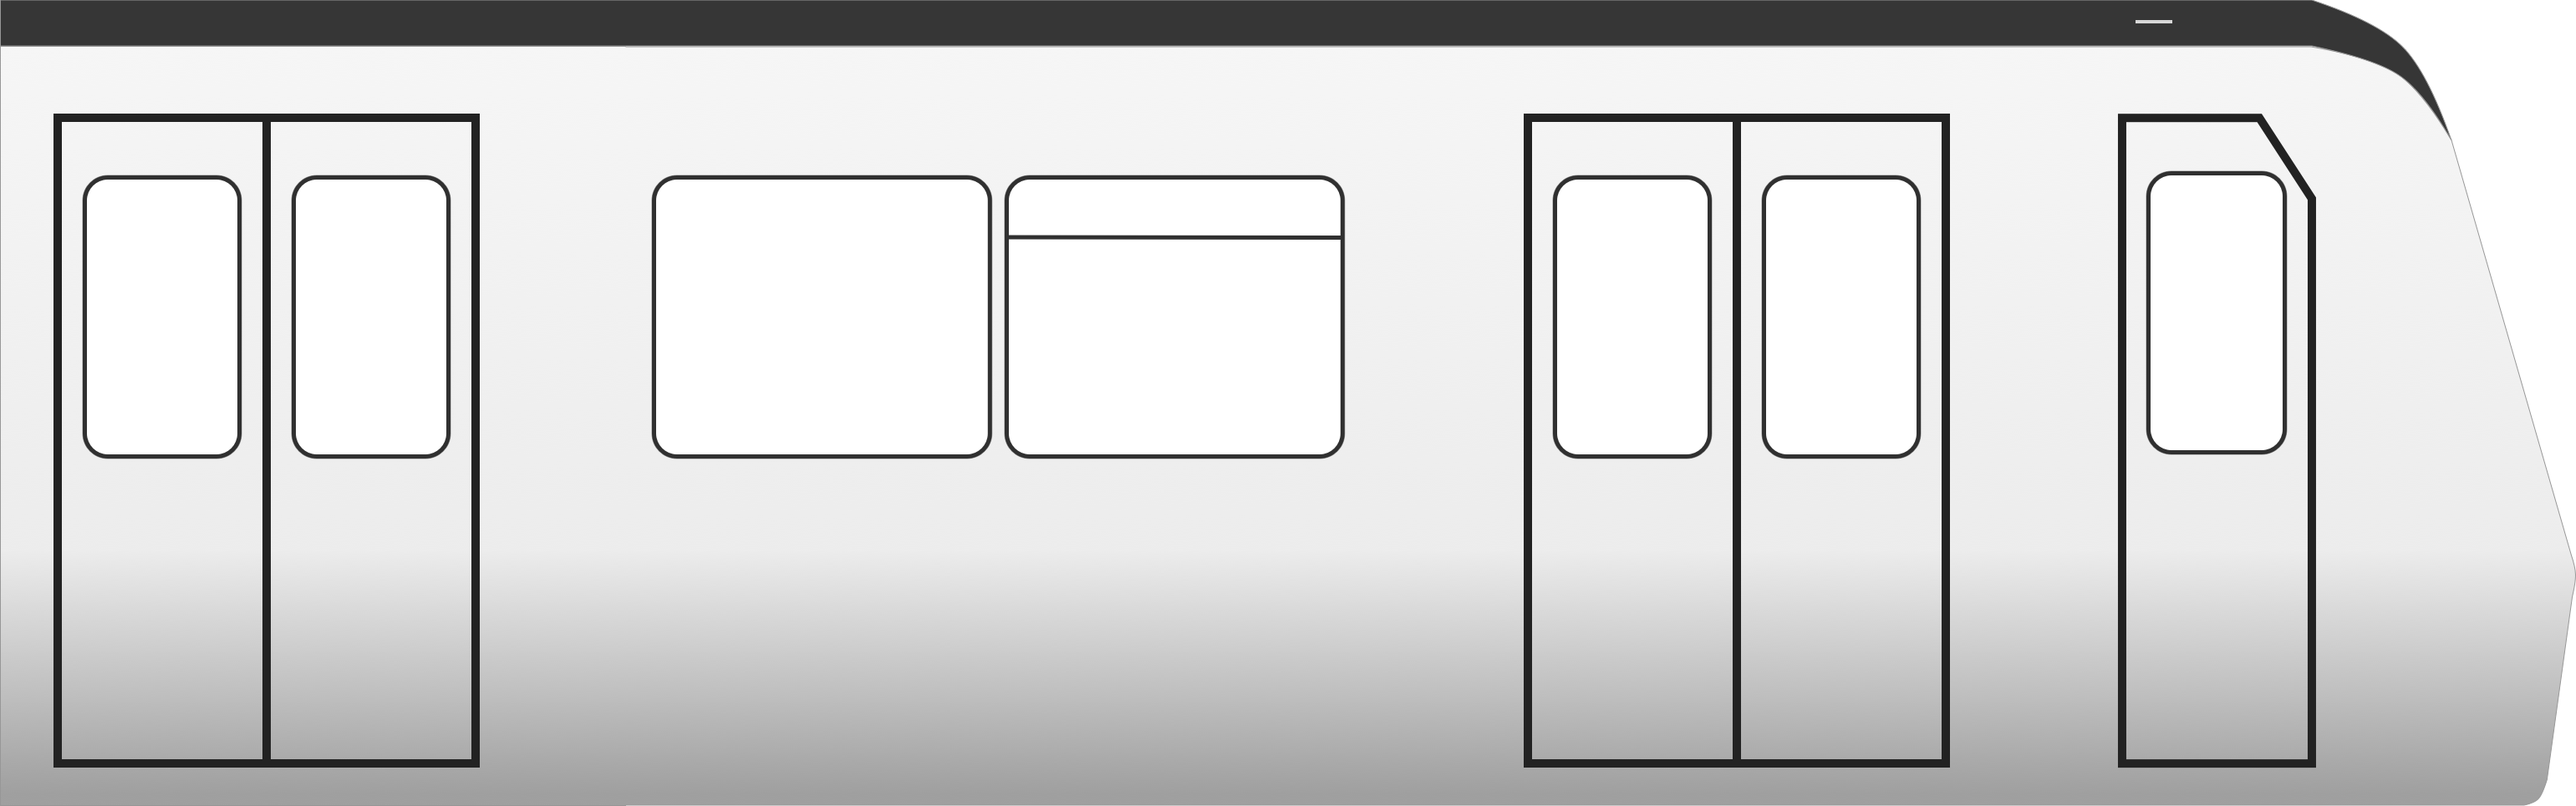
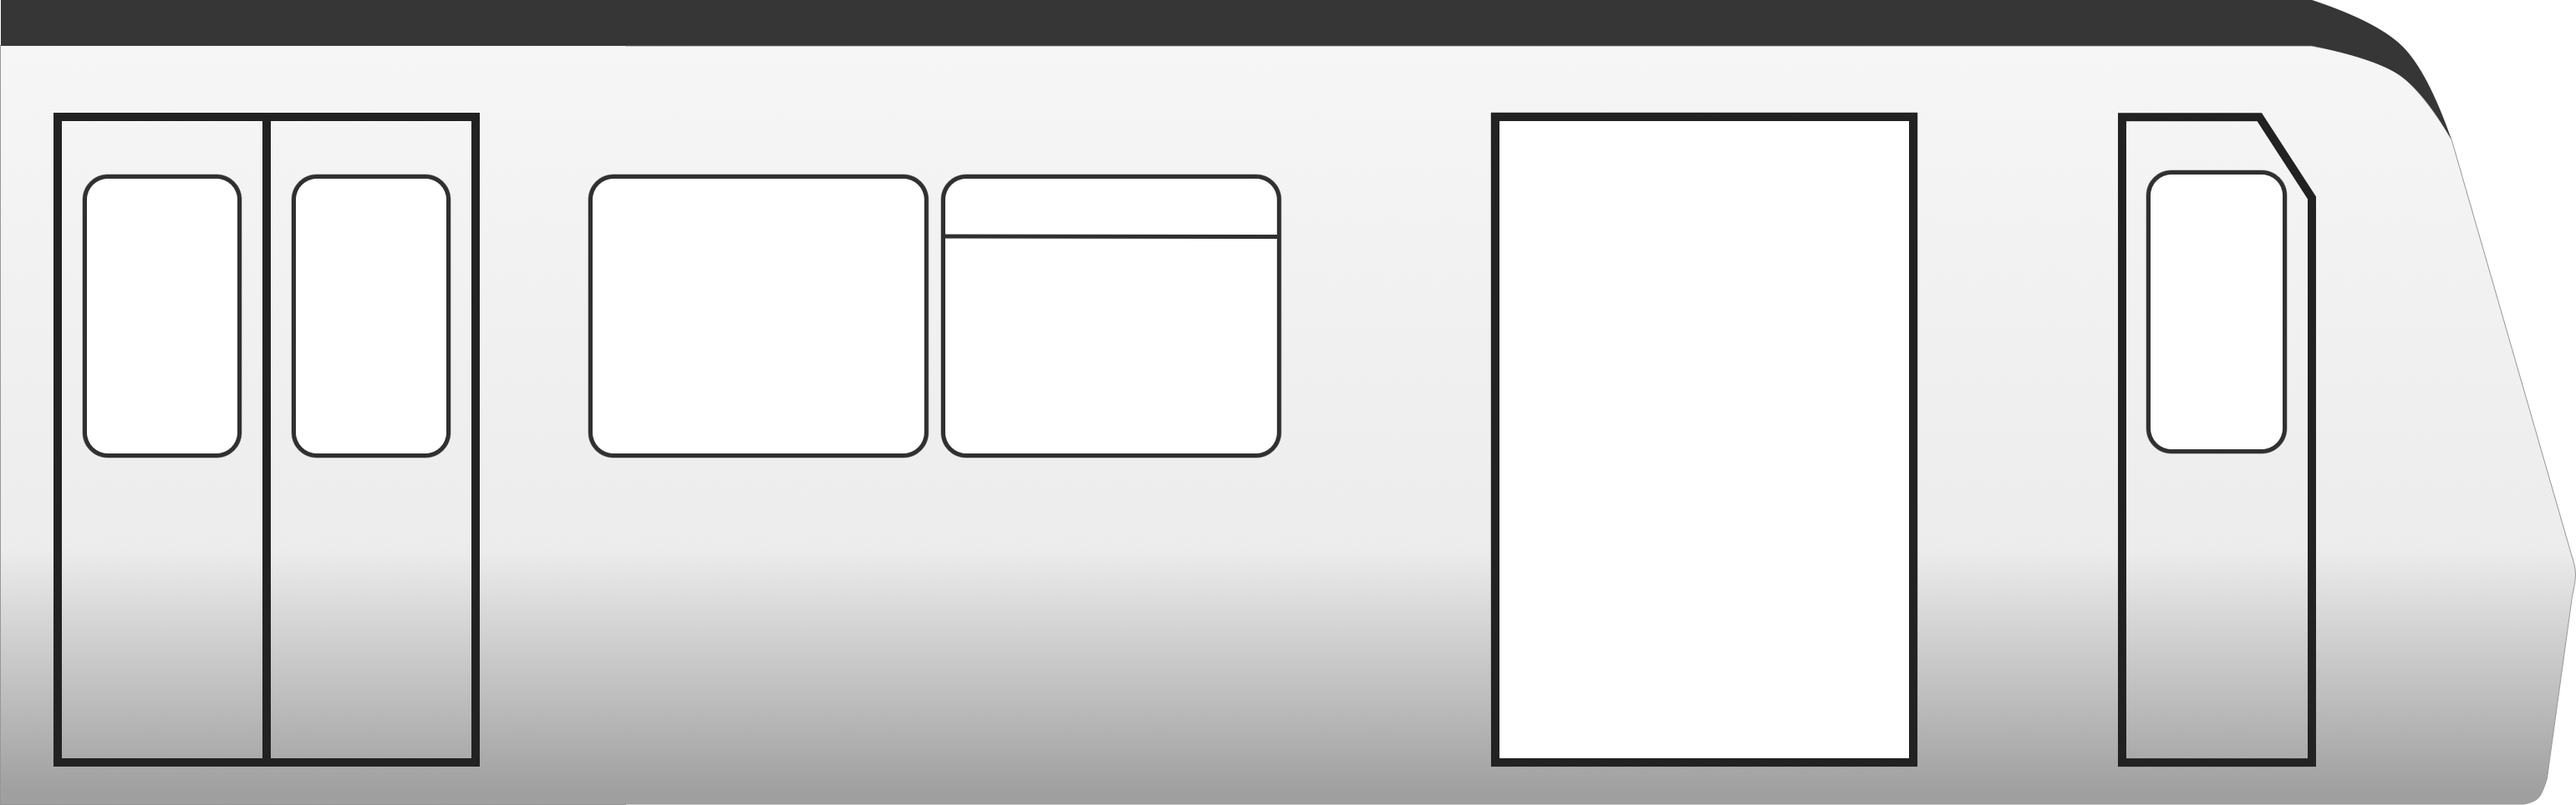
Doors added

diff --git a/main.js b/main.js
@@ -1,4 +1,4 @@
-const debugMode = 1
+const debugMode = 0
 
 var currentDistance = 0
 
@@ -29,6 +29,23 @@ function brake() {
     }
 }
 
+var doorstate = "closed"
+
+function doors() {
+    debugLog("start")
+        if (doorstate === "closed") {
+            leftdoor.x = 99
+            rightdoor.x = 249
+            doorstate = "open"
+            debugLog("opened")
+        } else {
+            leftdoor.x = 149
+            rightdoor.x = 199
+            doorstate = "closed"
+            debugLog("closed")
+        }
+}
+
 function atpbrake() {
     speed += -0.1
 }
@@ -53,8 +70,10 @@ document.onkeydown = function(e) {
             debugLog('Left Key pressed!') 
             break
         case 38: 
-            power()
-            debugLog(speed)
+            if (doorstate === "closed") {
+                power()
+                debugLog(speed)
+            }
             break
         case 39: 
             debugLog('Right Key pressed!') 
@@ -64,21 +83,30 @@ document.onkeydown = function(e) {
             debugLog(speed)
             break
         case 81:
-            power()
-            debugLog(speed)
+            if (doorstate === "closed") {
+                power()
+                debugLog(speed)
+            }
             break
         case 65: 
             brake()
             debugLog(speed)
             break 
         case 87:
-            power()
-            debugLog(speed)
+            if (doorstate === "closed") {
+                power()
+                debugLog(speed)
+            }
             break  
         case 83: 
             brake()
             debugLog(speed)
-            break 
+            break
+        case 13:
+            if (speed === 0) {
+                doors()
+            }
+            break            
     }
 }
 
@@ -90,14 +118,13 @@ function findx(place) {
 function preload() {
     this.load.image('tunnel', 'assets/tunnel.jpg');
     this.load.image('train', 'assets/train.png');
+    this.load.image('door', 'assets/door.png');
     this.load.image('taksim', 'assets/taksim.png');
     this.load.image('osmanbey', 'assets/osmanbey.jpg');
     this.load.image('sisli', 'assets/sisli.jpg');
     this.load.image('gayrettepe', 'assets/gayrettepe.png');
     this.load.image('levent', 'assets/levent.png');
 }
-
-var taksim
 
 function create() {
     speedprot = 0
@@ -133,17 +160,25 @@ function create() {
     tunnel24 = this.add.image(findx(28), 235, 'tunnel').setOrigin(0, 0);
     tunnel25 = this.add.image(findx(29), 235, 'tunnel').setOrigin(0, 0);
     taksim.setScale(0.5)
+    leftdoor = this.add.image(149, 299, 'door').setOrigin(0, 0);
+    rightdoor = this.add.image(199, 299, 'door').setOrigin(0, 0);
     train = this.add.image(100, 368, 'train');
     train.setScale(0.2)
+    leftdoor.setScale(0.2)
+    rightdoor.setScale(0.2)
     speedometer = this.add.text(20, 510, "0 km/h", { fontSize: "30px", fontFamily: 'Helvetica, "Arial", sans-serif', fill: "white" }).setOrigin(0, 0);
     maxspeed = this.add.text(20, 550, "Max speed: 80 km/h", { fontSize: "20px", fontFamily: 'Helvetica, "Arial", sans-serif', fill: "white" }).setOrigin(0, 0);
     modeint = this.add.text(200, 510, "ATP", { fontSize: "30px", fontFamily: 'Helvetica, "Arial", sans-serif', fill: "black" }).setOrigin(0, 0);
+    //currentDistanceInd = this.add.text(1000, 510, "0 km", { fontSize: "30px", fontFamily: 'Helvetica, "Arial", sans-serif', fill: "white" }).setOrigin(0, 0);
 }
 
 function update() {
     kmspeed = Math.round(speed * 3.2)
+    currentDistance += speed
+    //kmCurrentDistance = Math.round(currentDistance) / 3.2
     speedometer.destroy()
     maxspeed.destroy()
+    //currentDistanceInd.destroy()
     modeint.destroy()
     if (speedprot === 1) {
         speedometer = this.add.text(20, 510, kmspeed+" km/h", { fontSize: "30px", fontFamily: 'Helvetica, "Arial", sans-serif', fill: "red" }).setOrigin(0, 0);
@@ -155,14 +190,14 @@ function update() {
         }
     } else if (kmspeed < maxkmspeed) {
         speedometer = this.add.text(20, 510, kmspeed+" km/h", { fontSize: "30px", fontFamily: 'Helvetica, "Arial", sans-serif', fill: "white" }).setOrigin(0, 0);
-    } else if (kmspeed < maxkmspeed + 10) {
+    } else if (kmspeed < maxkmspeed + 11) {
         speedometer = this.add.text(20, 510, kmspeed+" km/h", { fontSize: "30px", fontFamily: 'Helvetica, "Arial", sans-serif', fill: "yellow" }).setOrigin(0, 0);
     } else if (kmspeed >= maxkmspeed + 10) {
         console.log("overspeed")
         speedprot = 1
     }
     maxspeed = this.add.text(20, 550, "Max: 80 km/h", { fontSize: "20px", fontFamily: 'Helvetica, "Arial", sans-serif', fill: "white" }).setOrigin(0, 0);
-    currentDistance += speed
+    //currentDistanceInd = this.add.text(1000, 510, kmCurrentDistance + " km", { fontSize: "30px", fontFamily: 'Helvetica, "Arial", sans-serif', fill: "white" }).setOrigin(0, 0);
     taksim.x += -1 * speed
     tunnel.x += -1 * speed
     tunnel2.x += -1 * speed
